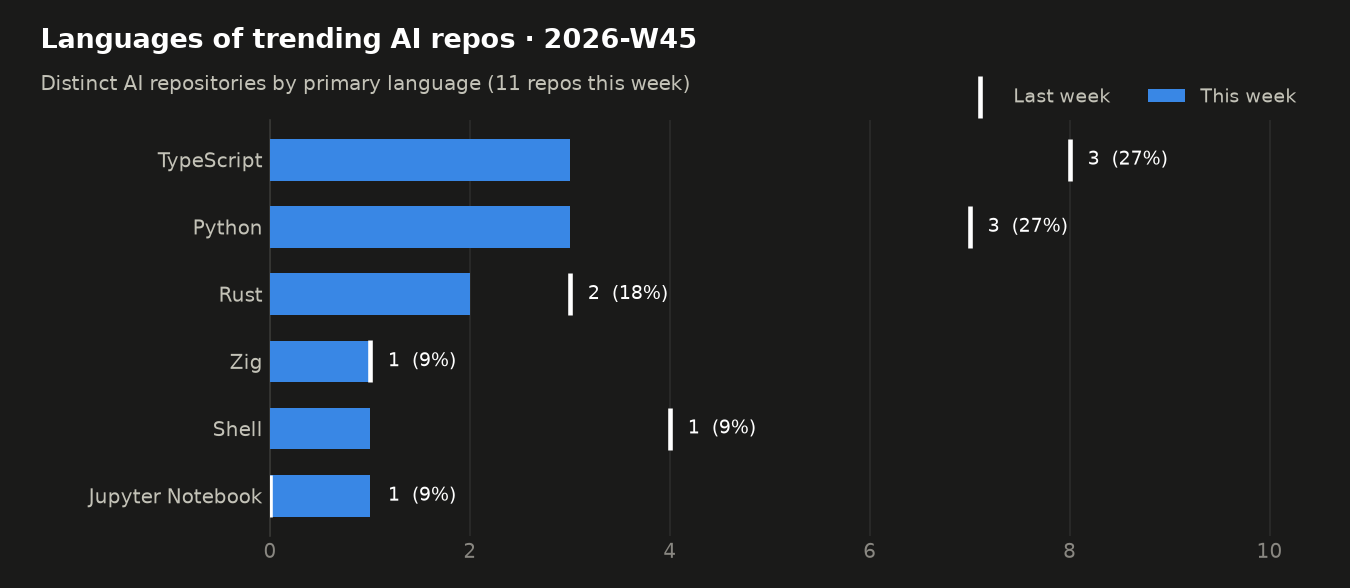
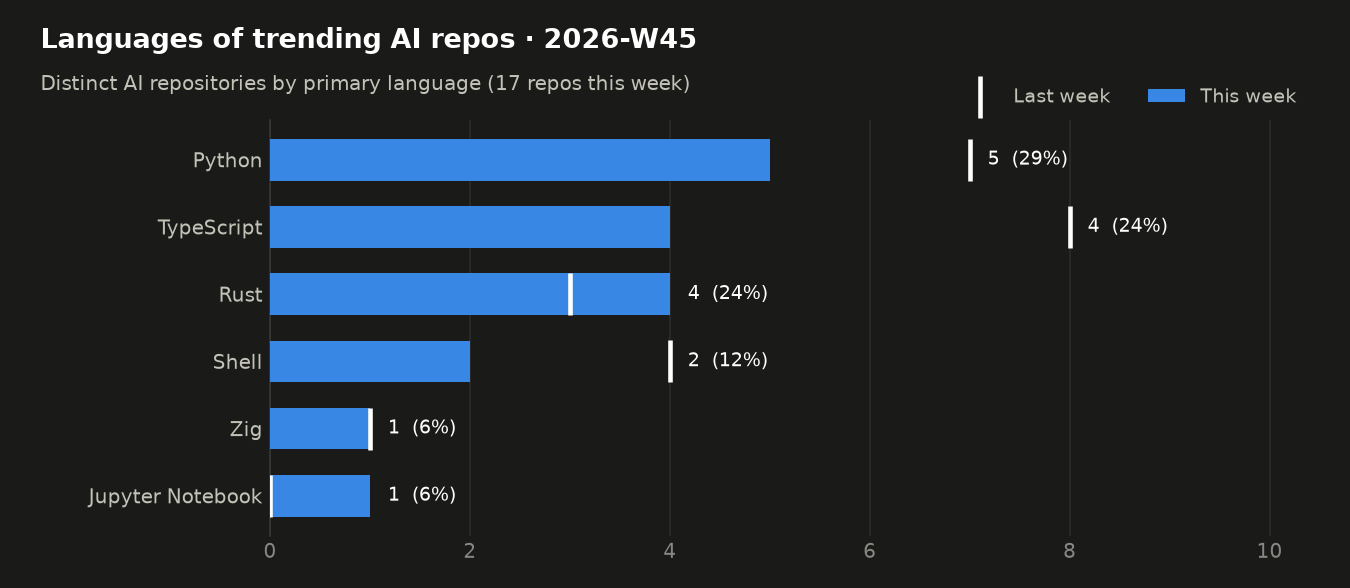
trending: snapshot 2026-11-03

diff --git a/README.md b/README.md
@@ -7,32 +7,32 @@ Every morning a GitHub Actions workflow reads the GitHub trending page, looks up
 ## Live view
 
 <!-- TRACKER_START -->
-### 🔥 AI repos trending today · 2026-11-02
+### 🔥 AI repos trending today · 2026-11-03
 
-11 of 16 trending repositories are AI-related.
+10 of 15 trending repositories are AI-related.
 
 | # | Repo | Language | ⭐ today | ⭐ total | Topics |
 |--:|---|---|--:|--:|---|
-| 1 | [thedotmack/claude-mem](https://github.com/thedotmack/claude-mem)<br><sub>Sponsor Star thedotmack / claude-mem Persistent Context Across Sessions for Every Agent – …</sub> | TypeScript | 1,526 | 110,017 | `ai` `ai-agents` `ai-memory` `anthropic` |
-| 2 | [lightpanda-io/browser](https://github.com/lightpanda-io/browser)<br><sub>Star lightpanda-io / browser Lightpanda: the headless browser designed for AI and automati…</sub> | Zig | 825 | 40,668 | `browser` `browser-automation` `cdp` `headless` |
-| 5 | [milind-soni/OpenMausBot](https://github.com/milind-soni/OpenMausBot)<br><sub>Sponsor Star milind-soni / OpenMausBot Open-source Grok Bot alternative with a virtual mac…</sub> | TypeScript | 922 | 10,910 | `ai-agents` `claude-code` `codex` `computer-use` |
-| 7 | [cjpais/Handy](https://github.com/cjpais/Handy)<br><sub>Sponsor Star cjpais / Handy A free, open source, and extensible speech-to-text application…</sub> | Rust | 339 | 36,948 | `accessibility` `cross-platform` `speech-to-text` `tauri-v2` |
-| 8 | [Donchitos/Claude-Code-Game-Studios](https://github.com/Donchitos/Claude-Code-Game-Studios)<br><sub>Sponsor Star Donchitos / Claude-Code-Game-Studios Turn Claude Code into a full game dev st…</sub> | Shell | 967 | 32,845 | `ai-agents` `ai-assisted-development` `anthropic` `claude` |
-| 9 | [kornia/kornia](https://github.com/kornia/kornia)<br><sub>Sponsor Star kornia / kornia 🐍 Geometric Computer Vision Library for Spatial AI</sub> | Python | 101 | 11,953 | `artificial-intelligence` `computer-vision` `deep-learning` `hacktoberfest` |
-| 10 | [beenuar/AiSOC](https://github.com/beenuar/AiSOC)<br><sub>Star beenuar / AiSOC Open-source AI Security Operations Center: alert fusion, LLM-agent tr…</sub> | Python | 446 | 6,483 | `agentic-ai` `ai-security` `alert-triage` `blue-team` |
-| 11 | [anomalyco/hex](https://github.com/anomalyco/hex)<br><sub>Sponsor Star anomalyco / hex Local voice dictation for mac, windows and linux</sub> | Rust | 1,179 | 3,713 | `dictation` `linux` `local-first` `macos` |
-| 12 | [CopilotKit/OpenBot](https://github.com/CopilotKit/OpenBot)<br><sub>Star CopilotKit / OpenBot Open-source AI coworkers that each get a computer of their own: …</sub> | TypeScript | 175 | 9,756 | `ag-ui` `agent-governance` `ai-agents` `browser-automation` |
-| 14 | [patchy631/ai-engineering-hub](https://github.com/patchy631/ai-engineering-hub)<br><sub>Sponsor Star patchy631 / ai-engineering-hub In-depth tutorials on LLMs, RAGs and real-worl…</sub> | Jupyter Notebook | 1,191 | 40,719 | `agents` `ai` `llms` `machine-learning` |
-| 15 | [FlashML-org/FreeToken](https://github.com/FlashML-org/FreeToken)<br><sub>Star FlashML-org / FreeToken FreeToken brings datacenter-scale model serving to your deskt…</sub> | Python | 242 | 15,674 | `deepseek-v4` `edge` `glm` `inference` |
+| 1 | [vercel-labs/agent-desktop](https://github.com/vercel-labs/agent-desktop)<br><sub>Star vercel-labs / agent-desktop Computer use CLI for AI agents</sub> | Rust | 2,275 | 11,224 | `accessibility` `accessibility-api` `ai-agents` `automation` |
+| 2 | [thedotmack/claude-mem](https://github.com/thedotmack/claude-mem)<br><sub>Sponsor Star thedotmack / claude-mem Persistent Context Across Sessions for Every Agent – …</sub> | TypeScript | 1,803 | 111,176 | `ai` `ai-agents` `ai-memory` `anthropic` |
+| 3 | [D4Vinci/Scrapling](https://github.com/D4Vinci/Scrapling)<br><sub>Sponsor Star D4Vinci / Scrapling 🕷 The BEST Web Scraping framework that handles everythin…</sub> | Python | 706 | 93,580 | `ai` `ai-scraping` `automation` `crawler` |
+| 5 | [Donchitos/Claude-Code-Game-Studios](https://github.com/Donchitos/Claude-Code-Game-Studios)<br><sub>Sponsor Star Donchitos / Claude-Code-Game-Studios Turn Claude Code into a full game dev st…</sub> | Shell | 1,379 | 34,037 | `ai-agents` `ai-assisted-development` `anthropic` `claude` |
+| 6 | [FlashML-org/FreeToken](https://github.com/FlashML-org/FreeToken)<br><sub>Star FlashML-org / FreeToken FreeToken brings datacenter-scale model serving to your deskt…</sub> | Python | 653 | 16,360 | `deepseek-v4` `edge` `glm` `inference` |
+| 9 | [kornia/kornia](https://github.com/kornia/kornia)<br><sub>Sponsor Star kornia / kornia 🐍 Geometric Computer Vision Library for Spatial AI</sub> | Python | 412 | 12,263 | `artificial-intelligence` `computer-vision` `deep-learning` `hacktoberfest` |
+| 11 | [mattpocock/skills](https://github.com/mattpocock/skills)<br><sub>Sponsor Star mattpocock / skills Skills for Real Engineers. Straight from my .agents direc…</sub> | Shell | 858 | 310,666 | – |
+| 12 | [max-sixty/worktrunk](https://github.com/max-sixty/worktrunk)<br><sub>Star max-sixty / worktrunk Worktrunk is a CLI for Git worktree management, designed for pa…</sub> | Rust | 77 | 10,198 | `agents` `claude-code` `codex` `developer-tools` |
+| 13 | [paperclipai/paperclip](https://github.com/paperclipai/paperclip)<br><sub>Star paperclipai / paperclip The open-source app everyone uses to manage agents at work</sub> | TypeScript | 412 | 110,645 | `acpx` `agent-orchestration` `agent-skills` `agentic-ai` |
+| 15 | [p-e-w/heretic](https://github.com/p-e-w/heretic)<br><sub>Star p-e-w / heretic Training-free language model modification: Remove censorship, suppres…</sub> | Python | 420 | 38,361 | `abliteration` `anti-censorship` `anticensorship` `censorship` |
 
 ### 📊 This week so far · 2026-W45
 
 #### Summary
 
-- **11** distinct AI repos trended over 1 day(s) (last week: 30)
-- AI share of all trending slots: **69%** (-13 pts vs last week)
-- No single dominant language: Python, TypeScript tied at 3 repo(s) each
-- Rising topics: `self-hosted` (+1), `speech-to-text` (+1)
+- **17** distinct AI repos trended over 2 day(s) (last week: 30)
+- AI share of all trending slots: **68%** (-14 pts vs last week)
+- Dominant language: **Python** (29% of AI repos)
+- Rising topics: `accessibility` (+2), `agents` (+2), `transformer` (+2), `automation` (+1), `computer-use` (+1)
+- New this week: `accessibility`, `agents`, `transformer`
 
 #### Languages
 
@@ -40,12 +40,12 @@ Every morning a GitHub Actions workflow reads the GitHub trending page, looks up
 
 | Language | Repos | Share | Last week |
 |---|--:|--:|--:|
-| TypeScript | 3 | 27% | 8 |
-| Python | 3 | 27% | 7 |
-| Rust | 2 | 18% | 3 |
-| Zig | 1 | 9% | 1 |
-| Shell | 1 | 9% | 4 |
-| Jupyter Notebook | 1 | 9% | 0 |
+| Python | 5 | 29% | 7 |
+| TypeScript | 4 | 24% | 8 |
+| Rust | 4 | 24% | 3 |
+| Shell | 2 | 12% | 4 |
+| Zig | 1 | 6% | 1 |
+| Jupyter Notebook | 1 | 6% | 0 |
 
 #### Topics
 
@@ -53,37 +53,37 @@ Every morning a GitHub Actions workflow reads the GitHub trending page, looks up
 
 | Topic | Repos this week |
 |---|--:|
-| `ai-agents` | 4 |
-| `claude-code` | 3 |
-| `mcp` | 3 |
+| `ai-agents` | 6 |
+| `mcp` | 6 |
+| `claude-code` | 5 |
+| `claude` | 3 |
+| `codex` | 3 |
 | `anthropic` | 2 |
-| `claude` | 2 |
 | `rag` | 2 |
+| `claude-skills` | 2 |
 | `browser-automation` | 2 |
+| `playwright` | 2 |
 | `self-hosted` | 2 |
-| `speech-to-text` | 2 |
-| `claude-code-plugin` | 1 |
-| `claude-agent-sdk` | 1 |
-| `sqlite` | 1 |
+| `computer-use` | 2 |
 
 #### Most persistent AI repos
 
 | Repo | Language | Days trending | Stars gained | Total stars |
 |---|---|--:|--:|--:|
-| [thedotmack/claude-mem](https://github.com/thedotmack/claude-mem) | TypeScript | 1 | 1,526 | 110,017 |
+| [thedotmack/claude-mem](https://github.com/thedotmack/claude-mem) | TypeScript | 2 | 3,329 | 111,176 |
+| [Donchitos/Claude-Code-Game-Studios](https://github.com/Donchitos/Claude-Code-Game-Studios) | Shell | 2 | 2,346 | 34,037 |
+| [FlashML-org/FreeToken](https://github.com/FlashML-org/FreeToken) | Python | 2 | 895 | 16,360 |
+| [kornia/kornia](https://github.com/kornia/kornia) | Python | 2 | 513 | 12,263 |
+| [vercel-labs/agent-desktop](https://github.com/vercel-labs/agent-desktop) | Rust | 1 | 2,275 | 11,224 |
 | [patchy631/ai-engineering-hub](https://github.com/patchy631/ai-engineering-hub) | Jupyter Notebook | 1 | 1,191 | 40,719 |
 | [anomalyco/hex](https://github.com/anomalyco/hex) | Rust | 1 | 1,179 | 3,713 |
-| [Donchitos/Claude-Code-Game-Studios](https://github.com/Donchitos/Claude-Code-Game-Studios) | Shell | 1 | 967 | 32,845 |
 | [milind-soni/OpenMausBot](https://github.com/milind-soni/OpenMausBot) | TypeScript | 1 | 922 | 10,910 |
+| [mattpocock/skills](https://github.com/mattpocock/skills) | Shell | 1 | 858 | 310,666 |
 | [lightpanda-io/browser](https://github.com/lightpanda-io/browser) | Zig | 1 | 825 | 40,668 |
-| [beenuar/AiSOC](https://github.com/beenuar/AiSOC) | Python | 1 | 446 | 6,483 |
-| [cjpais/Handy](https://github.com/cjpais/Handy) | Rust | 1 | 339 | 36,948 |
-| [FlashML-org/FreeToken](https://github.com/FlashML-org/FreeToken) | Python | 1 | 242 | 15,674 |
-| [CopilotKit/OpenBot](https://github.com/CopilotKit/OpenBot) | TypeScript | 1 | 175 | 9,756 |
 
 ➡ Last full weekly analysis: [2026-W44](reports/weekly/2026-W44.md) · [all reports](reports/weekly)
 
-_Tracking since 2026-10-01 · 33 day(s) of data · [raw data](data/trending.csv)_
+_Tracking since 2026-10-01 · 34 day(s) of data · [raw data](data/trending.csv)_
 <!-- TRACKER_END -->
 
 ## How it works
